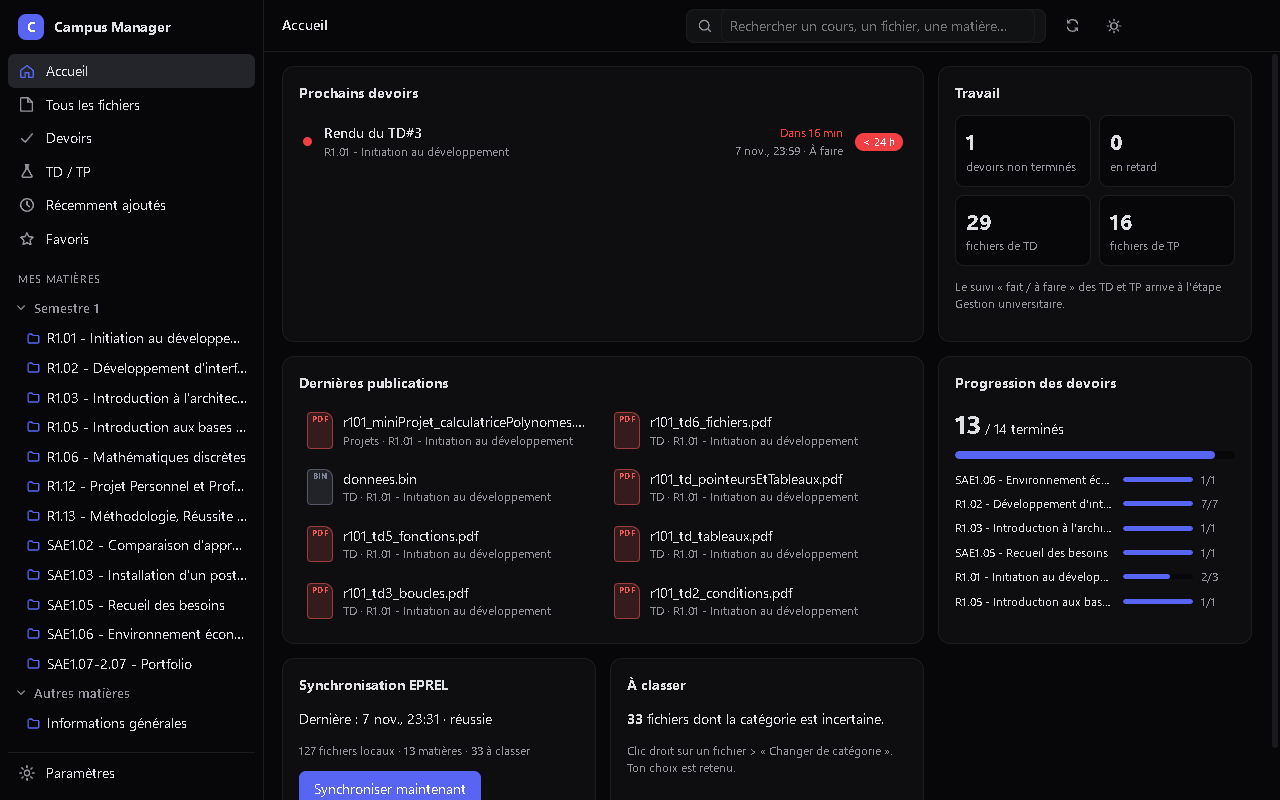
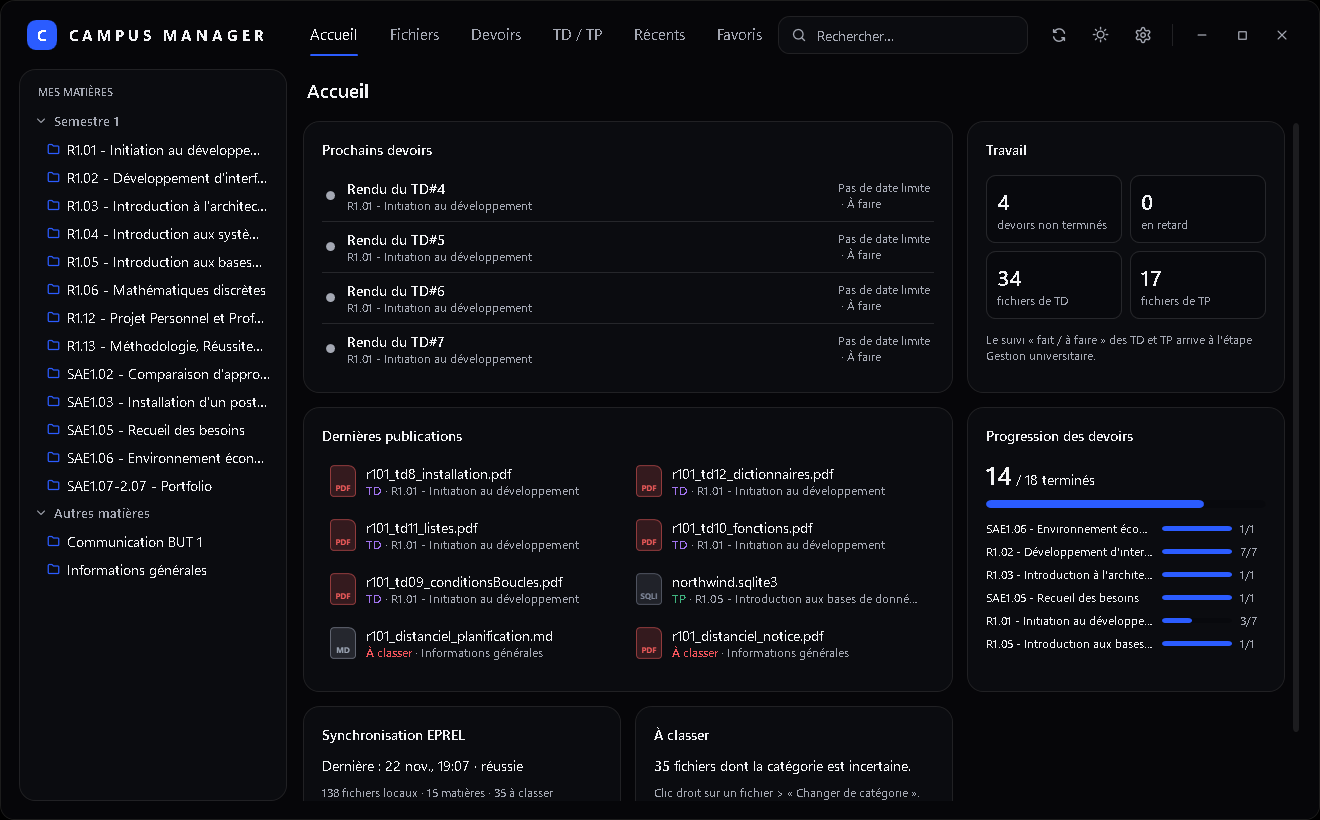
docs: README et captures de la version 0.2.0 (C#, thème translucide, recherche, notifications)

diff --git a/README.md b/README.md
@@ -6,7 +6,7 @@ Les fichiers de cours sont réellement téléchargés et classés automatiquemen
 
 **[⬇ Télécharger l'installateur Windows](https://github.com/obvSoul/campus-manager/releases/latest)** (Windows 10/11 64 bits ; SmartScreen peut avertir car l'installateur n'est pas signé : « Informations complémentaires » puis « Exécuter quand même »).
 
-![C#](https://img.shields.io/badge/C%23-.NET%2010-512bd4) ![WPF](https://img.shields.io/badge/UI-WPF-0c54c2) ![SQLite](https://img.shields.io/badge/SQLite-Microsoft.Data.Sqlite-003b57) ![Tests](https://img.shields.io/badge/tests-61%20passing-23a55a)
+![C#](https://img.shields.io/badge/C%23-.NET%2010-512bd4) ![WPF](https://img.shields.io/badge/UI-WPF-0c54c2) ![SQLite](https://img.shields.io/badge/SQLite-Microsoft.Data.Sqlite-003b57) ![Tests](https://img.shields.io/badge/tests-81%20passing-23a55a)
 
 ![Accueil : prochains devoirs, dernières publications, progression](docs/accueil.png)
 
@@ -24,9 +24,13 @@ Sur Moodle, les documents sont dispersés entre des dizaines de sections, les da
 - **Bibliothèque physique** : fichiers rangés dans `Documents\Campus Manager\Semestre\Matière\Catégorie`, utilisables avec n'importe quel logiciel.
 - **Classement automatique** (Cours, TD, TP, Corrections, Projets…) par un système de règles pondérées avec score de confiance ; les cas douteux vont dans « À classer ».
 - **Devoirs** : échéances réelles (prolongations comprises), statut « rendu » importé, devoirs des années précédentes séparés.
-- **Explorateur** : 4 vues, tri, recherche globale, aperçu PDF (moteur PDF de Windows), images et texte, glisser-déposer depuis et vers l'Explorateur Windows.
+- **Explorateur** : 4 vues, tri sur 7 critères (tri naturel td1, td2… td10, choix mémorisé), aperçu PDF (moteur PDF de Windows), images et texte, glisser-déposer depuis et vers l'Explorateur Windows.
+- **Recherche dans le texte** des PDF, Word, PowerPoint et fichiers de code (index SQLite FTS5 trigrammes, sans casse ni accents), avec l'extrait où le mot apparaît.
+- **Une couleur par catégorie** (Cours, TD, TP, Projets…) partout dans l'interface.
+- **Synchronisation automatique** à la fréquence choisie et **notifications Windows** : nouveaux documents, devoir à rendre sous 24 h, session expirée.
 - **Widget de bureau** : transparent, fixé au niveau du bureau (sous les fenêtres), masqué automatiquement pendant un jeu en plein écran.
 - **Arrière-plan** : démarrage avec Windows, raccourcis clavier globaux, l'appli continue quand la fenêtre est fermée.
+- **Interface** façon lanceur de jeu : fenêtre sans cadre et translucide (opacité réglable), onglets en haut, panneaux en verre, thèmes sombre et clair.
 - **Installateur** Windows (Inno Setup) sans droits administrateur.
 
 ## Léger
@@ -59,6 +63,7 @@ src/
     Classify/           classement automatique
     Sync/               client API Moodle, SSO, moteur de synchronisation
     Queries/            lectures pour l'interface et le widget
+    Search/             recherche dans le texte des fichiers (extraction + index FTS5)
   CampusManager.App/    WPF : fenêtres, widget, Win32, jeton, démarrage Windows
 tests/CampusManager.Tests/   xUnit (vrais fichiers sur disque, API Moodle simulée)
 installer/              Inno Setup
@@ -66,7 +71,7 @@ installer/              Inno Setup
 
 Détails : [ARCHITECTURE.md](ARCHITECTURE.md).
 
-**Stack** : C# 14 / .NET 10, WPF, CommunityToolkit.Mvvm, Microsoft.Data.Sqlite + Dapper, WebView2 (connexion seulement), Windows.Data.Pdf, xUnit, Inno Setup.
+**Stack** : C# 14 / .NET 10, WPF, CommunityToolkit.Mvvm, Microsoft.Data.Sqlite + Dapper (FTS5), PdfPig, WebView2 (connexion seulement), Windows.Data.Pdf, notifications Windows (CommunityToolkit), xUnit, Inno Setup.
 
 ## Lancer le projet
 
@@ -74,7 +79,7 @@ Prérequis : Windows 10/11, SDK .NET 10.
 
 ```powershell
 dotnet run --project src\CampusManager.App    # lance l'application
-dotnet test                                    # 61 tests
+dotnet test                                    # 81 tests
 installer\build.ps1 -Version 0.2.0             # crée l'installateur dans installer\Output
 ```
 
@@ -84,4 +89,4 @@ La première synchronisation ouvre la page de connexion de l'université. L'appl
 
 ## Feuille de route
 
-Calendrier, synchronisation automatique avec notifications, choix du dossier racine.
+Calendrier des échéances, suivi « fait / à faire » des TD et TP, choix du dossier racine.

diff --git a/ARCHITECTURE.md b/ARCHITECTURE.md
@@ -46,5 +46,5 @@ l'interface peuvent l'utiliser en même temps.
   si le choix de l'utilisateur est « activé » (une réinstallation peut l'avoir retirée).
 
 ## Tests
-`dotnet test` : 61 tests xUnit sur de vrais fichiers dans un dossier temporaire ; l'API Moodle y est
+`dotnet test` : 81 tests xUnit sur de vrais fichiers dans un dossier temporaire ; l'API Moodle y est
 simulée (format documenté). Ils prouvent la logique, pas que le vrai EPREL expose ces données.
